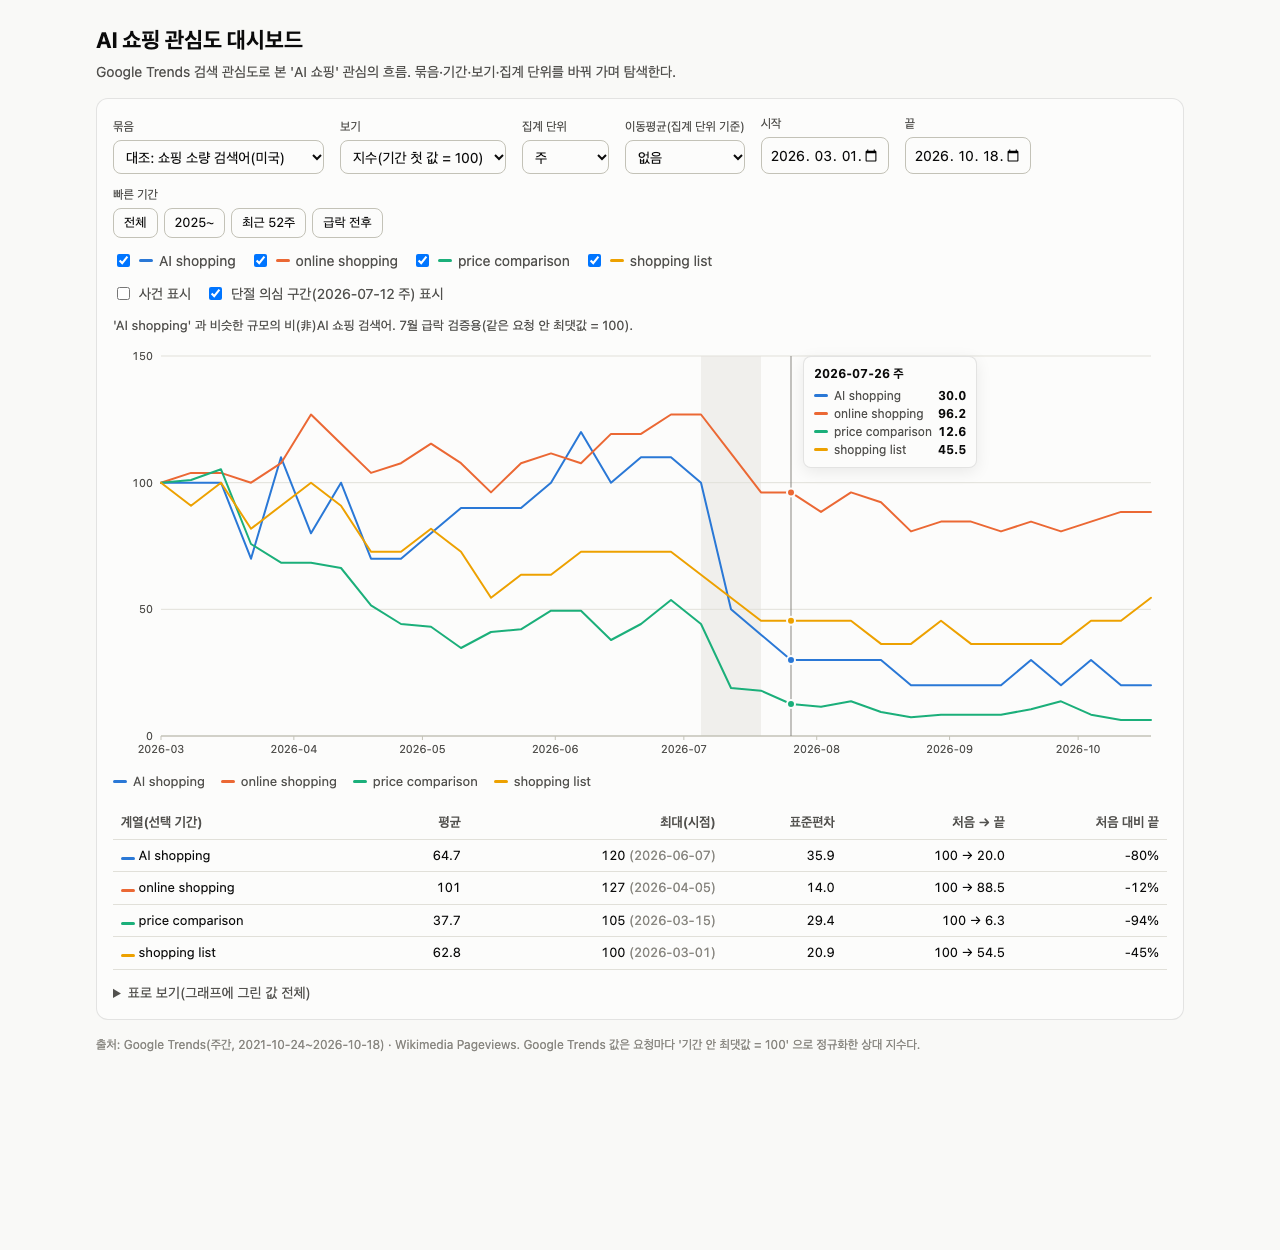
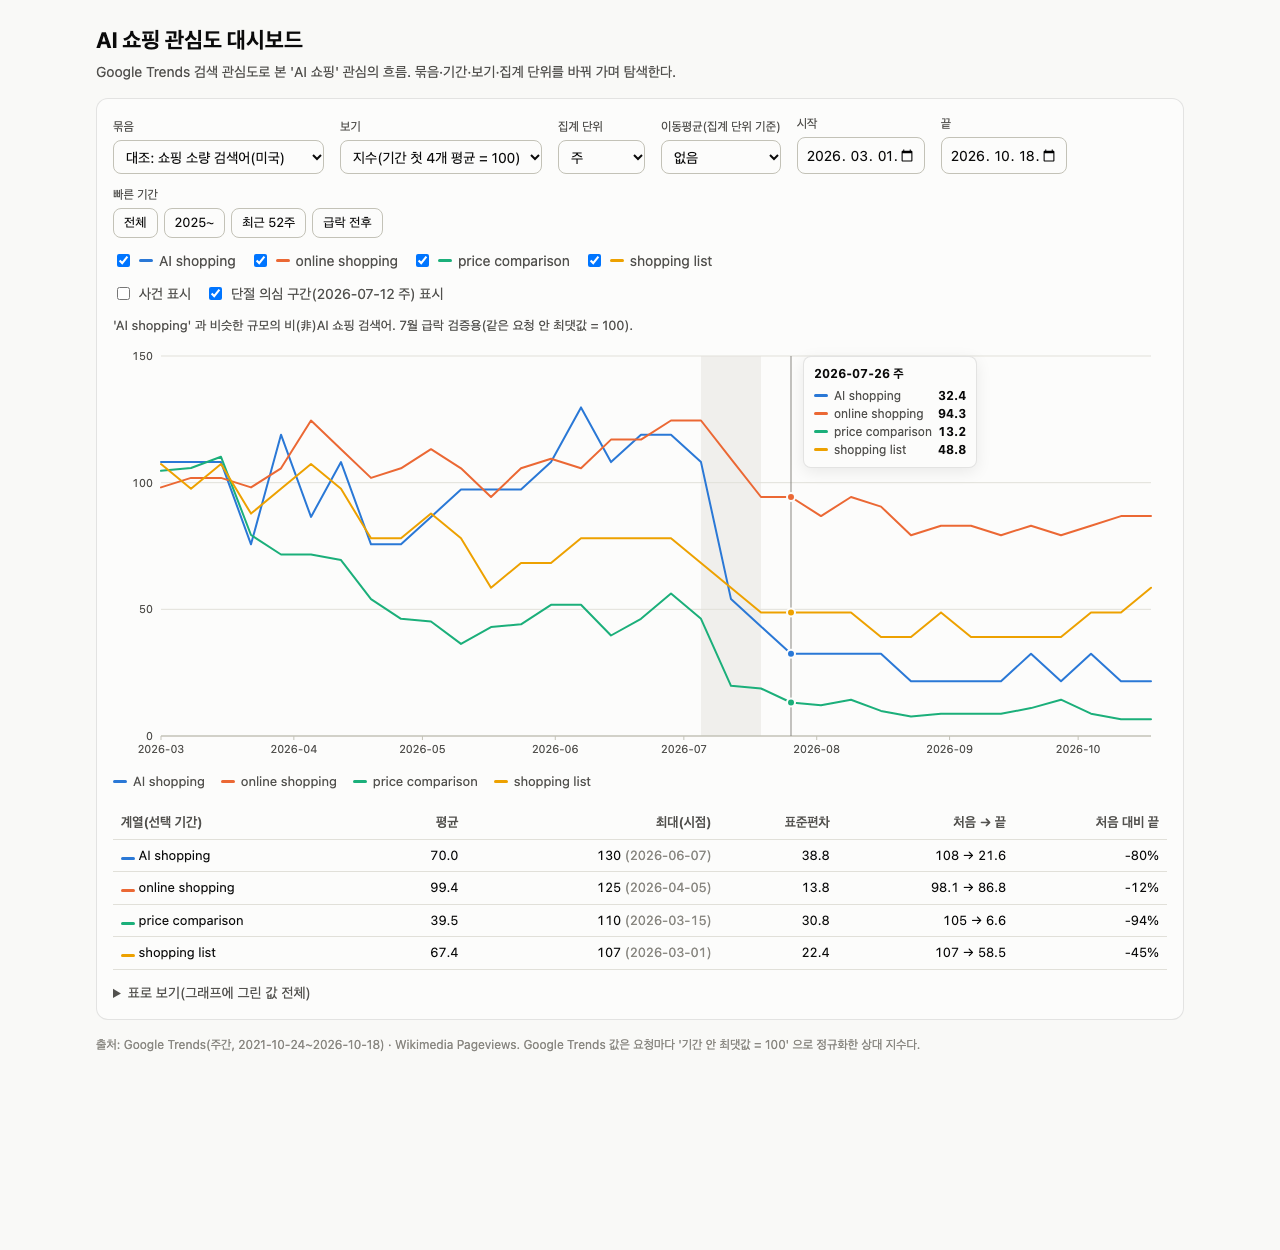
AI_final/mission1: 대시보드 지수 기준을 '기간 첫 값'에서 '첫 4개 평균'으로 — 한 주 출렁임에 기준이 흔들리지 않게, 캡처 04·문서 표기 갱신

diff --git a/AI_final/mission1/dashboard/index.html b/AI_final/mission1/dashboard/index.html
@@ -82,7 +82,7 @@ footer { color: var(--muted); font-size: 12px; margin-top: 16px; }
       <label class="field"><span>보기</span>
         <select id="view">
           <option value="raw">원값</option>
-          <option value="index">지수(기간 첫 값 = 100)</option>
+          <option value="index">지수(기간 첫 4개 평균 = 100)</option>
           <option value="pop">직전 대비 변화율(%)</option>
           <option value="yoy">전년 같은 시기 대비(%)</option>
         </select></label>
@@ -200,8 +200,10 @@ function prepare() {
     let dates = a.dates.filter((_, i) => keep[i]);
     v = v.filter((_, i) => keep[i]);
     if (state.view === "index") {
-      const base = v.find((x) => x !== null && x >= 1);
-      if (base === undefined) { v = v.map(() => null); warn = "기간 첫 값이 1 미만인 계열은 지수를 계산하지 않았다."; }
+      // 한 점의 출렁임에 기준이 흔들리지 않게 기간 첫 4개 값의 평균을 100 으로 둔다
+      const head = v.filter((x) => x !== null).slice(0, 4);
+      const base = head.length ? head.reduce((p, q) => p + q, 0) / head.length : 0;
+      if (base < 1) { v = v.map(() => null); warn = "기간 첫 4개 값의 평균이 1 미만인 계열은 지수를 계산하지 않았다."; }
       else v = v.map((x) => (x === null ? null : (x / base) * 100));
     }
     out.push({ key: s.key, label: s.label, color: COLORS[idx], dates, values: v, hidden: state.hide.has(s.key) });

diff --git a/AI_final/mission1/build_dashboard.py b/AI_final/mission1/build_dashboard.py
@@ -156,7 +156,7 @@ footer { color: var(--muted); font-size: 12px; margin-top: 16px; }
       <label class="field"><span>보기</span>
         <select id="view">
           <option value="raw">원값</option>
-          <option value="index">지수(기간 첫 값 = 100)</option>
+          <option value="index">지수(기간 첫 4개 평균 = 100)</option>
           <option value="pop">직전 대비 변화율(%)</option>
           <option value="yoy">전년 같은 시기 대비(%)</option>
         </select></label>
@@ -274,8 +274,10 @@ function prepare() {
     let dates = a.dates.filter((_, i) => keep[i]);
     v = v.filter((_, i) => keep[i]);
     if (state.view === "index") {
-      const base = v.find((x) => x !== null && x >= 1);
-      if (base === undefined) { v = v.map(() => null); warn = "기간 첫 값이 1 미만인 계열은 지수를 계산하지 않았다."; }
+      // 한 점의 출렁임에 기준이 흔들리지 않게 기간 첫 4개 값의 평균을 100 으로 둔다
+      const head = v.filter((x) => x !== null).slice(0, 4);
+      const base = head.length ? head.reduce((p, q) => p + q, 0) / head.length : 0;
+      if (base < 1) { v = v.map(() => null); warn = "기간 첫 4개 값의 평균이 1 미만인 계열은 지수를 계산하지 않았다."; }
       else v = v.map((x) => (x === null ? null : (x / base) * 100));
     }
     out.push({ key: s.key, label: s.label, color: COLORS[idx], dates, values: v, hidden: state.hide.has(s.key) });

diff --git a/AI_final/mission1/REPORT.md b/AI_final/mission1/REPORT.md
@@ -405,7 +405,7 @@
 | 1 | 기본: 미국 5종 · 원값 · 주 · 이동평균 4 · 전체 기간 · 사건 표시, 2026-06-07 주에 툴팁 | ![](dashboard/screenshots/01_default.png) | 2025년 급증과 2026-07 급락, 최고점 주의 검색어별 값 |
 | 2 | 보기를 '직전 대비 변화율'로, 기간을 '2025~'로, 'AI shopping'만 켬, 2025-07-13 주 툴팁 | ![](dashboard/screenshots/02_spikes_pop.png) | ⑦ ChatGPT agent 직후 +63%, ⑧ 직후 +80% 같은 급등 주 |
 | 3 | 묶음을 '미국 vs 한국'으로, 기간 2024-07~ | ![](dashboard/screenshots/03_us_vs_kr.png) | 한국이 미국을 약 20주 늦게 따라온 모양, K1·K2 시점 |
-| 4 | 묶음을 '대조: 쇼핑 소량 검색어'로, 보기를 '지수(기간 첫 값 = 100)'로, '급락 전후' 기간 | ![](dashboard/screenshots/04_break_index.png) | 2026-07 이후 'AI shopping'·'price comparison'은 급락, 'online shopping'은 소폭 하락 |
+| 4 | 묶음을 '대조: 쇼핑 소량 검색어'로, 보기를 '지수(기간 첫 4개 평균 = 100)'로, '급락 전후' 기간 | ![](dashboard/screenshots/04_break_index.png) | 2026-07 이후 'AI shopping'·'price comparison'은 급락, 'online shopping'은 소폭 하락 |
 | 5 | 미국 5종에서 'AI shopping'·'Amazon Rufus'만 켜고, 집계를 '분기 평균', 보기를 '전년 같은 시기 대비'로 | ![](dashboard/screenshots/05_quarterly_yoy.png) | 2025 Q3 전년 대비 +1,305% 정점, 2026 Q3 −30.5% |
 | 6 | 묶음을 '위키백과 조회수'로, 기간 2025-12~ | ![](dashboard/screenshots/06_wiki_crosscheck.png) | 7월 단절 구간에 위키백과는 떨어지지 않음, 9월 말 Agentic commerce 최고치 |
 | 7 | 휴대폰 폭(390px)에서 월 평균 보기 | ![](dashboard/screenshots/07_mobile.png) | 필터가 줄바꿈되고 그래프·표가 화면 폭에 맞춰짐 |
